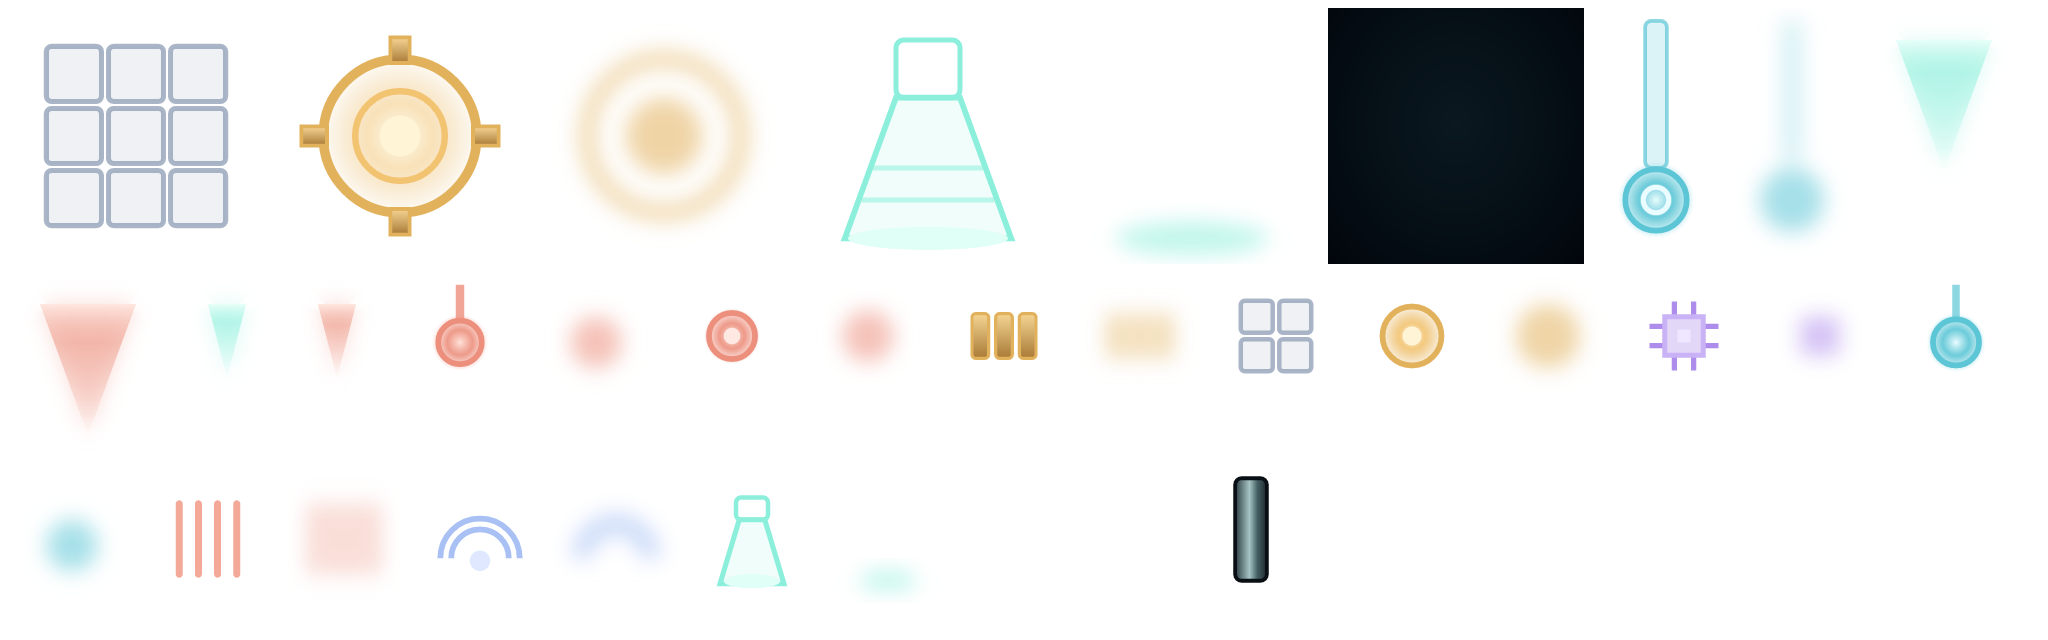
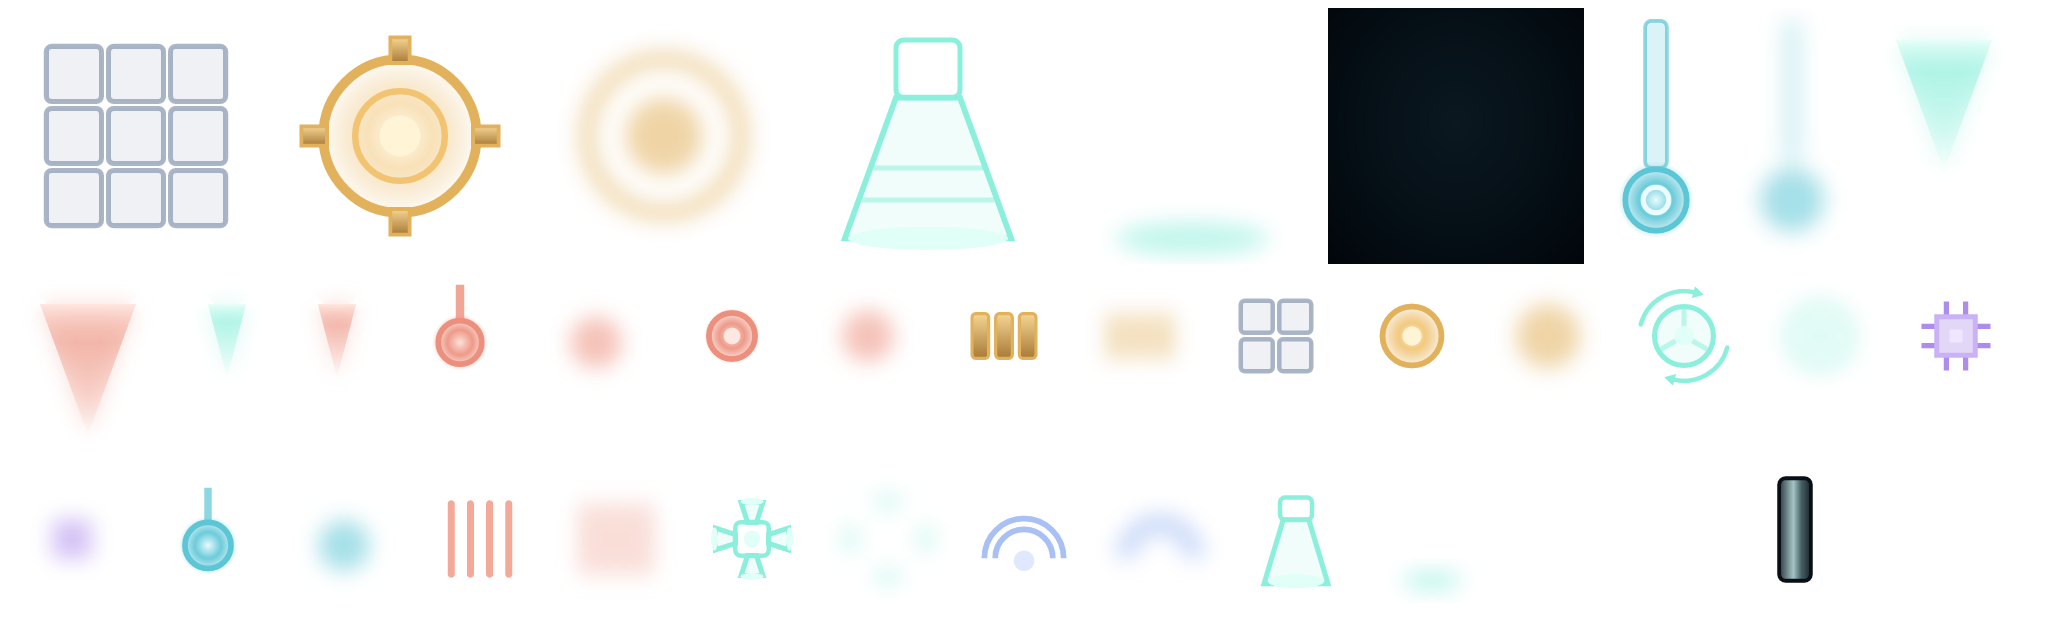
game: regenerate atlas (gyro, rcs-pod), opt-level 3 web builds, showcase tweaks
- atlas-tool re-run for the new gyro and rcs-pod icons; a test checks that
  every icon used by content has an atlas region.
- Web release builds use the cargo release profile (opt-level 3) and
  wasm-opt -O3: the web build is the development platform, so speed over
  size. WASM_PROFILE=wasm-release selects the size profile.
- Showcase: raiders share one elliptical orbit (no crossings), default
  zoom 34 px/m, ?ship=<blueprint id> to show another blueprint.
- EngineMount records its blueprint part index for the sim bridge.

diff --git a/crates/game/index.html b/crates/game/index.html
@@ -5,8 +5,9 @@
   <meta name="viewport" content="width=device-width, initial-scale=1, maximum-scale=1, user-scalable=no, viewport-fit=cover" />
   <meta name="theme-color" content="#010409" />
   <title>Space Game</title>
-  <!-- Release builds run wasm-opt; the cargo profile comes from the command line (scripts/web-build.sh). -->
-  <link data-trunk rel="rust" data-bin="game" data-wasm-opt="s" data-wasm-opt-params="--enable-bulk-memory --enable-nontrapping-float-to-int" />
+  <!-- Release builds run wasm-opt (tuned for speed: the web build is the development platform, size doesn't
+       matter); the cargo profile comes from the command line (scripts/web-build.sh). -->
+  <link data-trunk rel="rust" data-bin="game" data-wasm-opt="3" data-wasm-opt-params="--enable-bulk-memory --enable-nontrapping-float-to-int" />
   <style>
     html, body { margin: 0; height: 100%; overflow: hidden; background: #010409; }
     body {

diff --git a/crates/game/src/showcase.rs b/crates/game/src/showcase.rs
@@ -17,8 +17,9 @@ use crate::RenderToggles;
 enum Script {
     /// Slow drift around the origin with a gentle turn.
     Drift,
-    /// Circle the origin; negative speed = clockwise.
-    Orbit { radius: f32, speed: f32, phase: f32 },
+    /// Circle the origin on an ellipse (`squash` = height / width, so the raiders stay on a landscape
+    /// screen); negative speed = clockwise.
+    Orbit { radius: f32, squash: f32, speed: f32, phase: f32 },
 }
 
 #[derive(Resource)]
@@ -45,10 +46,24 @@ fn setup(
     mut toggles: ResMut<RenderToggles>,
 ) {
     let content = data::base_content();
-    let runner = content.ships.get("halvex_runner").expect("base content has halvex_runner");
+    // `?ship=<blueprint id>` shows another blueprint in the player's place.
+    let player_id = params.text("ship").unwrap_or("halvex_runner");
+    let runner = content.ships.get(player_id).or_else(|| {
+        warn!("unknown ship `{player_id}`, showing halvex_runner");
+        content.ships.get("halvex_runner")
+    });
+    let runner = runner.expect("base content has halvex_runner");
     let raider = content.ships.get("automaton_raider").expect("base content has automaton_raider");
     let runner_v = ship_visual(&content, runner, &style).expect("halvex_runner visual");
     let raider_v = ship_visual(&content, raider, &style).expect("automaton_raider visual");
+    info!(
+        "showcase: {} {} parts, pivot {:?}; automaton_raider {} parts, pivot {:?}",
+        runner.id,
+        runner_v.parts.len(),
+        runner_v.pivot,
+        raider_v.parts.len(),
+        raider_v.pivot
+    );
 
     let still = params.flag("still").unwrap_or(false);
     let start = params.f32("t").unwrap_or(4.0) as f64;
@@ -59,11 +74,8 @@ fn setup(
     commands.entity(player).insert((Script::Drift, TrailEmitter::default()));
     toggles.ring_target = Some(player);
 
-    let orbits = [
-        Script::Orbit { radius: 11.5, speed: 0.16, phase: 0.35 },
-        Script::Orbit { radius: 14.0, speed: -0.12, phase: 2.6 },
-        Script::Orbit { radius: 16.5, speed: 0.1, phase: 4.3 },
-    ];
+    // One shared ellipse, evenly spaced, so the raiders never cross each other.
+    let orbits = [0.5f32, 2.594, 4.689].map(|phase| Script::Orbit { radius: 12.0, squash: 0.62, speed: 0.13, phase });
     for (k, s) in orbits.into_iter().enumerate() {
         let pose = pose_of(s, start_ticks, still);
         let e = spawn_ship_view(&mut commands, &mut meshes, &atlas, &style, &raider_v, pose, 10.0 + k as f32, &toggles);
@@ -80,11 +92,12 @@ fn pose_of(script: Script, ticks: u64, still: bool) -> Pose2 {
             Vec2::new(2.2 * (0.11 * t).sin(), 1.3 * (0.07 * t + 1.0).sin()),
             0.22 * (0.09 * t).sin() + 0.08 * (0.23 * t).sin(),
         ),
-        Script::Orbit { radius, speed, phase } => {
+        Script::Orbit { radius, squash, speed, phase } => {
             let a = phase + if still { 0.0 } else { speed * t };
-            let pos = Vec2::new(a.cos(), a.sin()) * radius;
+            let r = radius * (1.0 + if still { 0.0 } else { 0.04 * (0.5 * t + 2.0 * phase).sin() });
+            let pos = Vec2::new(a.cos(), squash * a.sin()) * r;
             // Nose (local +y) along the direction of travel.
-            let vel = Vec2::new(-a.sin(), a.cos()) * speed.signum();
+            let vel = Vec2::new(-a.sin(), squash * a.cos()) * speed.signum();
             Pose2::new(pos, (-vel.x).atan2(vel.y))
         }
     }

diff --git a/crates/game/src/ship_view.rs b/crates/game/src/ship_view.rs
@@ -27,6 +27,7 @@ use crate::RenderToggles;
 
 #[derive(Clone, Debug)]
 pub struct ShipVisual {
+    /// One entry per blueprint placement, in blueprint order (index = part index in `Blueprint::parts`).
     pub parts: Vec<PartVisual>,
     /// Outline loops of the main piece (blueprint frame); `bool` = closed.
     pub hull_loops: Vec<(Vec<Vec2>, bool)>,
@@ -91,6 +92,9 @@ pub struct GunVisual {
 /// Where an engine sits on the ship (ship-local, y up).
 #[derive(Clone, Copy, Debug)]
 pub struct EngineMount {
+    /// Index of the engine part in the blueprint (`Blueprint::parts`), for mapping sim throttles.
+    #[allow(dead_code, reason = "read by the sim bridge once the sim drives ships")]
+    pub part: usize,
     pub nozzle: Vec2,
     /// Exhaust direction (unit, ship-local).
     pub exhaust: Vec2,
@@ -110,10 +114,8 @@ pub struct ShipView {
     pub mesh_style: Handle<Mesh>,
     pub mesh_style_noglow: Handle<Mesh>,
     pub mesh_debug: Handle<Mesh>,
-    pub enemy: bool,
+    /// Hull glow colour (trails use it too).
     pub glow: Color,
-    /// Radius of the ship's bounding circle around the pivot (metres).
-    pub radius: f32,
 }
 
 #[derive(Component)]
@@ -168,7 +170,7 @@ pub fn spawn_ship_view(
 
     // Engines
     let mut engines = Vec::new();
-    for p in &v.parts {
+    for (part, p) in v.parts.iter().enumerate() {
         let Some(e) = p.engine else { continue };
         if !e.clear || !p.main {
             continue;
@@ -177,6 +179,7 @@ pub fn spawn_ship_view(
         let back = p.center - p.facing * (extent_along(p) / 2.0 - 0.05);
         let (len_idle, len_full) = plume_lengths(e.large);
         engines.push(EngineMount {
+            part,
             nozzle: to_local(back),
             exhaust: dir_local(-p.facing),
             large: e.large,
@@ -184,9 +187,6 @@ pub fn spawn_ship_view(
             len_full,
         });
     }
-
-    let corners = [v.bounds_min, v.bounds_max, Vec2::new(v.bounds_min.x, v.bounds_max.y), Vec2::new(v.bounds_max.x, v.bounds_min.y)];
-    let radius = corners.iter().map(|c| (to_local(*c)).length()).fold(0.0, f32::max);
 
     let root = commands
         .spawn((
@@ -279,9 +279,7 @@ pub fn spawn_ship_view(
         mesh_style,
         mesh_style_noglow,
         mesh_debug,
-        enemy: v.enemy,
         glow: v.glow,
-        radius,
     });
     root
 }

diff --git a/crates/game/src/atlas.rs b/crates/game/src/atlas.rs
@@ -184,3 +184,30 @@ fn build_image() -> Image {
     image.texture_descriptor.mip_level_count = levels as u32;
     image
 }
+
+#[cfg(test)]
+mod tests {
+    use super::*;
+
+    /// Every icon key used by content must have a baked atlas region (re-run atlas-tool when art changes).
+    #[test]
+    fn atlas_has_every_content_icon() {
+        let (regions, tokens) = parse_index(ATLAS_TXT, 1.0, 1.0);
+        let content = data::base_content();
+        let mut missing = Vec::new();
+        for part in content.parts.iter() {
+            if let Some(icon) = &part.icon
+                && !regions.contains_key(&format!("icon/{icon}"))
+            {
+                missing.push(format!("{} -> icon/{icon}", part.id));
+            }
+        }
+        assert!(missing.is_empty(), "atlas is missing icons (run `cargo run -p atlas-tool --release`): {missing:?}");
+        for tone in data::art_keys::ARMOR_TONES {
+            assert!(tokens.contains_key(&format!("ship.armor.{tone}")), "token ship.armor.{tone} missing");
+        }
+        for key in data::art_keys::SYSTEM_COLORS {
+            assert!(tokens.contains_key(&format!("ship.system_colors.{key}")), "token ship.system_colors.{key} missing");
+        }
+    }
+}

diff --git a/crates/game/src/style.rs b/crates/game/src/style.rs
@@ -24,13 +24,9 @@ pub struct Style {
     pub aura_opacity: f32,
     pub shield_color: Color,
     pub shield_opacity: f32,
-    pub muzzle: Color,
     pub particle: Color,
     pub dotted_ring: Color,
     pub ui_label: Color,
-    pub ui_dim: Color,
-    pub ui_number: Color,
-    pub ui_teal: Color,
 }
 
 impl Style {
@@ -55,13 +51,9 @@ impl Style {
             aura_opacity: atlas.token_f32("ship.aura.opacity_center"),
             shield_color: atlas.token_color("ship.shield_ring.color"),
             shield_opacity: atlas.token_f32("ship.shield_ring.opacity"),
-            muzzle: atlas.token_color("ship.muzzle"),
             particle: atlas.token_color("ui.particle"),
             dotted_ring: atlas.token_color("ui.dotted_ring"),
             ui_label: atlas.token_color("ui.label"),
-            ui_dim: atlas.token_color("ui.dim"),
-            ui_number: atlas.token_color("ui.number"),
-            ui_teal: atlas.token_color("ui.teal"),
         }
     }
 

diff --git a/crates/game/src/camera.rs b/crates/game/src/camera.rs
@@ -32,7 +32,7 @@ pub struct CameraRig {
 
 impl Default for CameraRig {
     fn default() -> Self {
-        Self { center: Vec2::ZERO, px_per_m: 40.0, follow: None, drag_last: None, pinch_last: None, touch_last: None }
+        Self { center: Vec2::ZERO, px_per_m: 34.0, follow: None, drag_last: None, pinch_last: None, touch_last: None }
     }
 }
 
@@ -53,7 +53,7 @@ pub fn camera_bundle() -> impl Bundle {
         Camera2d,
         Projection::Orthographic(OrthographicProjection {
             scaling_mode: ScalingMode::WindowSize,
-            scale: 1.0 / 40.0,
+            scale: 1.0 / 34.0,
             ..OrthographicProjection::default_2d()
         }),
     )

diff --git a/crates/game/src/sim_bridge.rs b/crates/game/src/sim_bridge.rs
@@ -65,7 +65,8 @@ impl SimPose {
     }
 }
 
-/// Engine throttles (0..1) in the order of the ship's engine mounts. Written by the sim bridge.
+/// Engine throttles (0..1) in the order of `ShipView::engines` (each mount names its blueprint part index).
+/// Written by the sim bridge.
 #[derive(Component, Clone, Debug, Default)]
 pub struct EngineThrottle(pub Vec<f32>);
 

diff --git a/crates/game/src/params.rs b/crates/game/src/params.rs
@@ -30,6 +30,10 @@ impl Params {
         self.0.get(key).and_then(|v| v.parse().ok())
     }
 
+    pub fn text(&self, key: &str) -> Option<&str> {
+        self.0.get(key).map(String::as_str)
+    }
+
     pub fn flag(&self, key: &str) -> Option<bool> {
         self.0.get(key).map(|v| !matches!(v.as_str(), "0" | "false" | "off" | "no"))
     }
